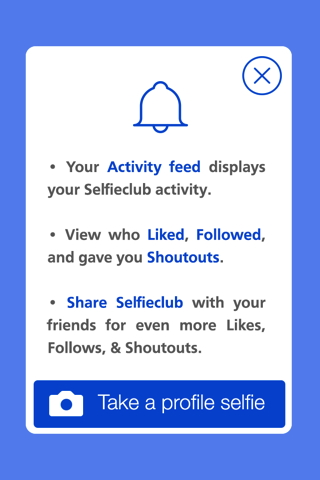
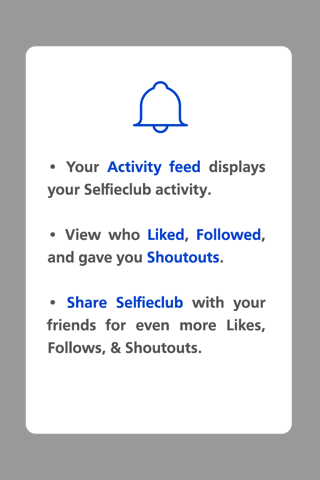
final updates for 1.0.5

diff --git a/ios/HotOrNot/HotOrNot/Classes/HONAlertsViewController.m b/ios/HotOrNot/HotOrNot/Classes/HONAlertsViewController.m
@@ -387,7 +387,6 @@
 						  properties:[NSDictionary dictionaryWithObjectsAndKeys:
 									  [NSString stringWithFormat:@"%@ - %@", [[HONAppDelegate infoForUser] objectForKey:@"id"], [[HONAppDelegate infoForUser] objectForKey:@"name"]], @"user", nil]];
 	
-	NSLog(@"_goMatchPhone");
 	UINavigationController *navigationController = [[UINavigationController alloc] initWithRootViewController:[[HONMatchContactsViewController alloc] initAsEmailVerify:NO]];
 	[navigationController setNavigationBarHidden:YES];
 	[self presentViewController:navigationController animated:YES completion:nil];
@@ -398,7 +397,6 @@
 						  properties:[NSDictionary dictionaryWithObjectsAndKeys:
 									  [NSString stringWithFormat:@"%@ - %@", [[HONAppDelegate infoForUser] objectForKey:@"id"], [[HONAppDelegate infoForUser] objectForKey:@"name"]], @"user", nil]];
 	
-	NSLog(@"_goMatchEmail");
 	UINavigationController *navigationController = [[UINavigationController alloc] initWithRootViewController:[[HONMatchContactsViewController alloc] initAsEmailVerify:YES]];
 	[navigationController setNavigationBarHidden:YES];
 	[self presentViewController:navigationController animated:YES completion:nil];
@@ -497,14 +495,14 @@
 		_tutorialImageView.alpha = 0.0;
 		
 		UIButton *closeButton = [UIButton buttonWithType:UIButtonTypeCustom];
-		closeButton.frame = CGRectMake(241.0, 97.0, 44.0, 44.0);
+		closeButton.frame = CGRectMake(241.0, ([HONAppDelegate isRetina4Inch]) ? 97.0 : 50.0, 44.0, 44.0);
 		[closeButton setBackgroundImage:[UIImage imageNamed:@"tutorial_closeButton_nonActive"] forState:UIControlStateNormal];
 		[closeButton setBackgroundImage:[UIImage imageNamed:@"tutorial_closeButton_Active"] forState:UIControlStateHighlighted];
 		[closeButton addTarget:self action:@selector(_goRemoveTutorial) forControlEvents:UIControlEventTouchDown];
 		[_tutorialImageView addSubview:closeButton];
 		
 		UIButton *avatarButton = [UIButton buttonWithType:UIButtonTypeCustom];
-		avatarButton.frame = CGRectMake(-1.0, ([HONAppDelegate isRetina4Inch]) ? 416.0 : 380.0, 320.0, 64.0);
+		avatarButton.frame = CGRectMake(-1.0, ([HONAppDelegate isRetina4Inch]) ? 416.0 : 374.0, 320.0, 64.0);
 		[avatarButton setBackgroundImage:[UIImage imageNamed:@"tutorial_profilePhoto_nonActive"] forState:UIControlStateNormal];
 		[avatarButton setBackgroundImage:[UIImage imageNamed:@"tutorial_profilePhoto_Active"] forState:UIControlStateHighlighted];
 		[avatarButton addTarget:self action:@selector(_goTakeAvatar) forControlEvents:UIControlEventTouchDown];

diff --git a/ios/HotOrNot/HotOrNot/Classes/HONTimelineViewController.m b/ios/HotOrNot/HotOrNot/Classes/HONTimelineViewController.m
@@ -594,14 +594,14 @@
 		_tutorialImageView.alpha = 0.0;
 		
 		UIButton *closeButton = [UIButton buttonWithType:UIButtonTypeCustom];
-		closeButton.frame = CGRectMake(241.0, 97.0, 44.0, 44.0);
+		closeButton.frame = CGRectMake(241.0, ([HONAppDelegate isRetina4Inch]) ? 97.0 : 50.0, 44.0, 44.0);
 		[closeButton setBackgroundImage:[UIImage imageNamed:@"tutorial_closeButton_nonActive"] forState:UIControlStateNormal];
 		[closeButton setBackgroundImage:[UIImage imageNamed:@"tutorial_closeButton_Active"] forState:UIControlStateHighlighted];
 		[closeButton addTarget:self action:@selector(_goRemoveTutorial) forControlEvents:UIControlEventTouchDown];
 		[_tutorialImageView addSubview:closeButton];
 		
 		UIButton *avatarButton = [UIButton buttonWithType:UIButtonTypeCustom];
-		avatarButton.frame = CGRectMake(-1.0, ([HONAppDelegate isRetina4Inch]) ? 416.0 : 380.0, 320.0, 64.0);
+		avatarButton.frame = CGRectMake(-1.0, ([HONAppDelegate isRetina4Inch]) ? 416.0 : 374.0, 320.0, 64.0);
 		[avatarButton setBackgroundImage:[UIImage imageNamed:@"tutorial_profilePhoto_nonActive"] forState:UIControlStateNormal];
 		[avatarButton setBackgroundImage:[UIImage imageNamed:@"tutorial_profilePhoto_Active"] forState:UIControlStateHighlighted];
 		[avatarButton addTarget:self action:@selector(_goTakeAvatar) forControlEvents:UIControlEventTouchDown];
@@ -775,6 +775,17 @@
 		[alertView setTag:HONTimelineAlertTypePhotoDetailBlocked];
 		[alertView show];
 	}
+}
+
+- (void)timelineItemViewCell:(HONTimelineItemViewCell *)cell showBannerForChallenge:(HONChallengeVO *)challengeVO {
+	[[Mixpanel sharedInstance] track:@"Timeline - Banner"
+						  properties:[NSDictionary dictionaryWithObjectsAndKeys:
+									  [NSString stringWithFormat:@"%@ - %@", [[HONAppDelegate infoForUser] objectForKey:@"id"], [[HONAppDelegate infoForUser] objectForKey:@"name"]], @"user",
+									  [NSString stringWithFormat:@"%d - %@", challengeVO.challengeID, challengeVO.subjectName], @"challenge", nil]];
+	
+	UINavigationController *navigationController = [[UINavigationController alloc] initWithRootViewController:[[HONMatchContactsViewController alloc] initAsEmailVerify:NO]];
+	[navigationController setNavigationBarHidden:YES];
+	[self presentViewController:navigationController animated:YES completion:nil];
 }
 
 

diff --git a/ios/HotOrNot/HotOrNot/Classes/HONTimelineCellSubjectView.m b/ios/HotOrNot/HotOrNot/Classes/HONTimelineCellSubjectView.m
@@ -27,7 +27,7 @@
 @synthesize delegate = _delegate;
 
 - (id)initAtOffsetY:(CGFloat)offsetY withSubjectName:(NSString *)subjectName withUsername:(NSString *)username {
-	if ((self = [super initWithFrame:CGRectMake(10.0, offsetY, 320.0, 70.0)])) {
+	if ((self = [super initWithFrame:CGRectMake(20.0, offsetY, 320.0, 70.0)])) {
 		_username = username;
 		
 		_captionLabel = [[UILabel alloc] initWithFrame:CGRectMake(0.0, 0.0, kMAX_WIDTH, self.frame.size.height)];
@@ -53,11 +53,12 @@
 		
 		HONEmotionVO *emotionVO = [self _creatorEmotionVO];
 		if (emotionVO != nil) {
-			UIImageView *emoticonImageView = [[UIImageView alloc] initWithFrame:CGRectMake(113.0, _captionLabel.frame.origin.y + _captionLabel.frame.size.height + 10.0, 94.0, 94.0)];
+			self.frame = CGRectOffset(self.frame, 0.0, -50.0);
+			
+			UIImageView *emoticonImageView = [[UIImageView alloc] initWithFrame:CGRectMake(93.0, _captionLabel.frame.origin.y + _captionLabel.frame.size.height + 10.0, 94.0, 94.0)];
 			[self addSubview:emoticonImageView];
 			
 			void (^successBlock)(NSURLRequest *request, NSHTTPURLResponse *response, UIImage *image) = ^void(NSURLRequest *request, NSHTTPURLResponse *response, UIImage *image) {
-				self.frame = CGRectOffset(self.frame, 0.0, -50.0);
 				emoticonImageView.image = image;
 			};
 			
@@ -105,7 +106,7 @@
 	HONEmotionVO *emotionVO;
 	
 	for (HONEmotionVO *vo in [HONAppDelegate composeEmotions]) {
-		if ([vo.hastagName isEqualToString:_caption]) {
+		if ([vo.emotionName isEqualToString:_caption]) {
 			emotionVO = vo;
 			break;
 		}
@@ -113,7 +114,7 @@
 	
 	if (emotionVO == nil) {
 		for (HONEmotionVO *vo in [HONAppDelegate replyEmotions]) {
-			if ([vo.hastagName isEqualToString:_caption]) {
+			if ([vo.emotionName isEqualToString:_caption]) {
 				emotionVO = vo;
 				break;
 			}

diff --git a/ios/HotOrNot/HotOrNot/Classes/HONTimelineItemViewCell.m b/ios/HotOrNot/HotOrNot/Classes/HONTimelineItemViewCell.m
@@ -152,9 +152,9 @@
 	}
 	
 	if (_isBanner) {
-		creatorHeaderView.frame = CGRectOffset(creatorHeaderView.frame, 0.0, 80.0);
+		_timelineItemFooterView.frame = CGRectOffset(_timelineItemFooterView.frame, 0.0, -80.0);
 		
-		UIImageView *bannerImageView = [[UIImageView alloc] initWithFrame:CGRectMake(0.0, 0.0, 320.0, 80.0)];
+		UIImageView *bannerImageView = [[UIImageView alloc] initWithFrame:CGRectMake(0.0, [UIScreen mainScreen].bounds.size.height - 130.0, 320.0, 80.0)];
 		[self.contentView addSubview:bannerImageView];
 		
 		void (^successBlock)(NSURLRequest *request, NSHTTPURLResponse *response, UIImage *image) = ^void(NSURLRequest *request, NSHTTPURLResponse *response, UIImage *image) {
@@ -169,6 +169,11 @@
 							   placeholderImage:nil
 										success:successBlock
 										failure:failureBlock];
+		
+		UIButton *bannerButton = [UIButton buttonWithType:UIButtonTypeCustom];
+		bannerButton.frame = bannerImageView.frame;
+		[bannerButton addTarget:self action:@selector(_goBanner) forControlEvents:UIControlEventTouchUpInside];
+		[self.contentView addSubview:bannerButton];
 	}
 }
 
@@ -221,6 +226,10 @@
 
 - (void)_goCreatorProfile {
 	[self.delegate timelineItemViewCell:self showProfileForUserID:_challengeVO.creatorVO.userID forChallenge:_challengeVO];
+}
+
+- (void)_goBanner {
+	[self.delegate timelineItemViewCell:self showBannerForChallenge:_challengeVO];
 }
 
 

diff --git a/ios/HotOrNot/HotOrNot/Classes/HONVerifyViewController.m b/ios/HotOrNot/HotOrNot/Classes/HONVerifyViewController.m
@@ -526,14 +526,14 @@
 		_tutorialImageView.alpha = 0.0;
 		
 		UIButton *closeButton = [UIButton buttonWithType:UIButtonTypeCustom];
-		closeButton.frame = CGRectMake(241.0, 97.0, 44.0, 44.0);
+		closeButton.frame = CGRectMake(241.0, ([HONAppDelegate isRetina4Inch]) ? 97.0 : 50.0, 44.0, 44.0);
 		[closeButton setBackgroundImage:[UIImage imageNamed:@"tutorial_closeButton_nonActive"] forState:UIControlStateNormal];
 		[closeButton setBackgroundImage:[UIImage imageNamed:@"tutorial_closeButton_Active"] forState:UIControlStateHighlighted];
 		[closeButton addTarget:self action:@selector(_goRemoveTutorial) forControlEvents:UIControlEventTouchDown];
 		[_tutorialImageView addSubview:closeButton];
 		
 		UIButton *avatarButton = [UIButton buttonWithType:UIButtonTypeCustom];
-		avatarButton.frame = CGRectMake(-1.0, ([HONAppDelegate isRetina4Inch]) ? 416.0 : 380.0, 320.0, 64.0);
+		avatarButton.frame = CGRectMake(-1.0, ([HONAppDelegate isRetina4Inch]) ? 416.0 : 374.0, 320.0, 64.0);
 		[avatarButton setBackgroundImage:[UIImage imageNamed:@"tutorial_profilePhoto_nonActive"] forState:UIControlStateNormal];
 		[avatarButton setBackgroundImage:[UIImage imageNamed:@"tutorial_profilePhoto_Active"] forState:UIControlStateHighlighted];
 		[avatarButton addTarget:self action:@selector(_goTakeAvatar) forControlEvents:UIControlEventTouchDown];

diff --git a/ios/HotOrNot/HotOrNot/Classes/HONCreateEmotionViewCell.m b/ios/HotOrNot/HotOrNot/Classes/HONCreateEmotionViewCell.m
@@ -30,8 +30,19 @@
 		_emotionVO = emotionVO;
 		
 		UIImageView *imageView = [[UIImageView alloc] initWithFrame:CGRectMake(6.0, 14.0, 37.0, 37.0)];
-		[imageView setImageWithURL:[NSURL URLWithString:_emotionVO.urlSmall] placeholderImage:nil];
 		[self.contentView addSubview:imageView];
+		
+		void (^successBlock)(NSURLRequest *request, NSHTTPURLResponse *response, UIImage *image) = ^void(NSURLRequest *request, NSHTTPURLResponse *response, UIImage *image) {
+			imageView.image = image;
+		};
+		
+		void (^failureBlock)(NSURLRequest *request, NSHTTPURLResponse *response, NSError *error) = ^void((NSURLRequest *request, NSHTTPURLResponse *response, NSError *error)) {
+		};
+		
+		[imageView setImageWithURLRequest:[NSURLRequest requestWithURL:[NSURL URLWithString:emotionVO.urlSmall] cachePolicy:NSURLRequestReloadIgnoringLocalCacheData timeoutInterval:[HONAppDelegate timeoutInterval]]
+						 placeholderImage:nil
+								  success:successBlock
+								  failure:failureBlock];
 		
 		UILabel *label = [[UILabel alloc] initWithFrame:CGRectMake(49.0, 23.0, 200.0, 24.0)];
 		label.font = [[HONAppDelegate cartoGothicBold] fontWithSize:20];

diff --git a/ios/HotOrNot/HotOrNot/Classes/HONMatchContactsViewController.m b/ios/HotOrNot/HotOrNot/Classes/HONMatchContactsViewController.m
@@ -116,7 +116,7 @@
 	[cancelButton setBackgroundImage:[UIImage imageNamed:@"cancelWhiteButton_Active"] forState:UIControlStateHighlighted];
 	[cancelButton addTarget:self action:@selector(_goCancel) forControlEvents:UIControlEventTouchUpInside];
 	
-	_headerView = [[HONHeaderView alloc] initAsModalWithTitle:[NSString stringWithFormat:@"Find friends from my %@", (_isEmail) ? @"email" : @"phone #"] hasTranslucency:NO];
+	_headerView = [[HONHeaderView alloc] initAsModalWithTitle:[NSString stringWithFormat:@"Enter your %@", (_isEmail) ? @"email" : @"phone #"] hasTranslucency:NO];
 	[_headerView addButton:cancelButton];
 	[self.view addSubview:_headerView];
 	

diff --git a/ios/HotOrNot/HotOrNot/Classes/HONTimelineItemViewCell.h b/ios/HotOrNot/HotOrNot/Classes/HONTimelineItemViewCell.h
@@ -33,4 +33,5 @@
 - (void)timelineItemViewCell:(HONTimelineItemViewCell *)cell showComments:(HONChallengeVO *)challengeVO;
 - (void)timelineItemViewCell:(HONTimelineItemViewCell *)cell showVoters:(HONChallengeVO *)challengeVO;
 - (void)timelineItemViewCell:(HONTimelineItemViewCell *)cell showPreview:(HONOpponentVO *)opponentVO forChallenge:(HONChallengeVO *)challengeVO;
+- (void)timelineItemViewCell:(HONTimelineItemViewCell *)cell showBannerForChallenge:(HONChallengeVO *)challengeVO;
 @end

diff --git a/ios/HotOrNot/HotOrNot/Classes/HONAppDelegate.m b/ios/HotOrNot/HotOrNot/Classes/HONAppDelegate.m
@@ -52,7 +52,7 @@
 
 #if __DEV_BUILD__ == 0 || __APPSTORE_BUILD__ == 1
 NSString * const kConfigURL = @"http://api.letsvolley.com";
-NSString * const kConfigJSON = @"boot_sc0002.json";
+NSString * const kConfigJSON = @"boot_sc0003.json";
 NSString * const kAPIHost = @"data_api";
 #else
 NSString * const kConfigURL = @"http://api-stage.letsvolley.com";
